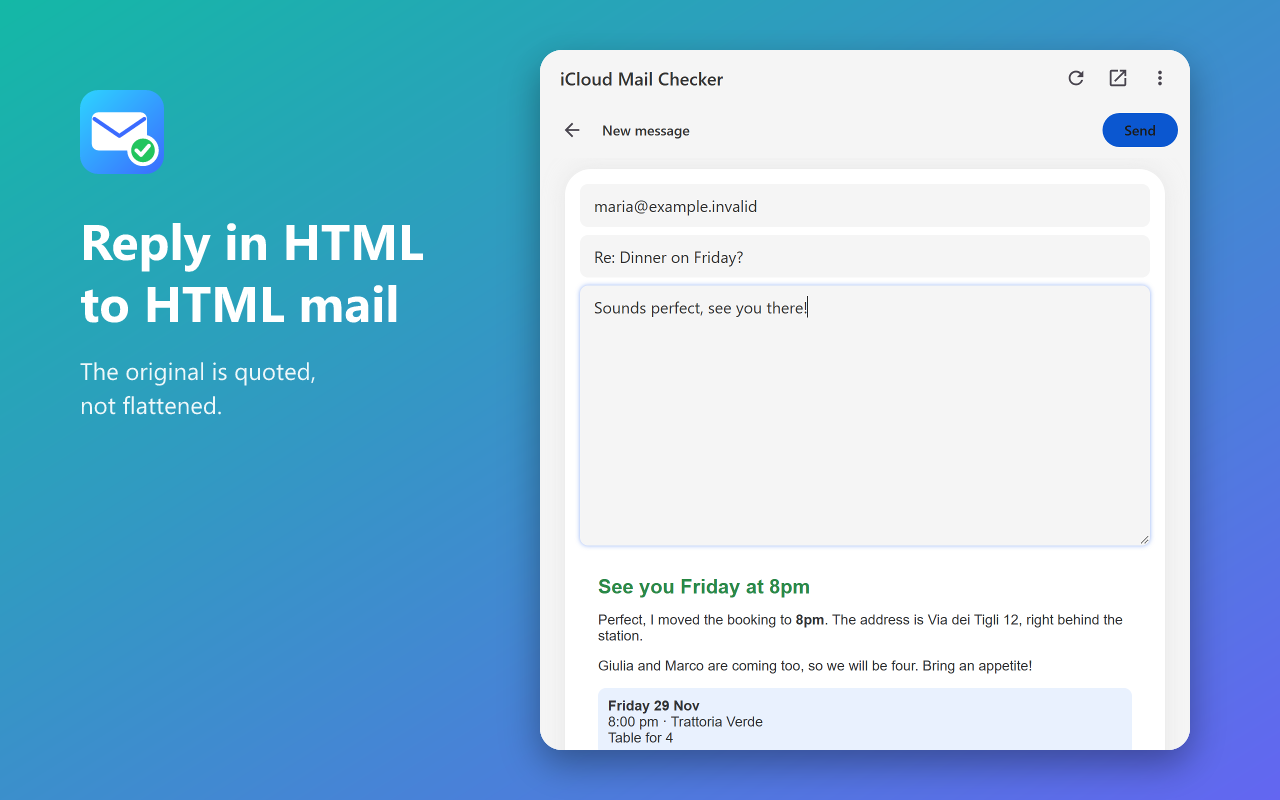
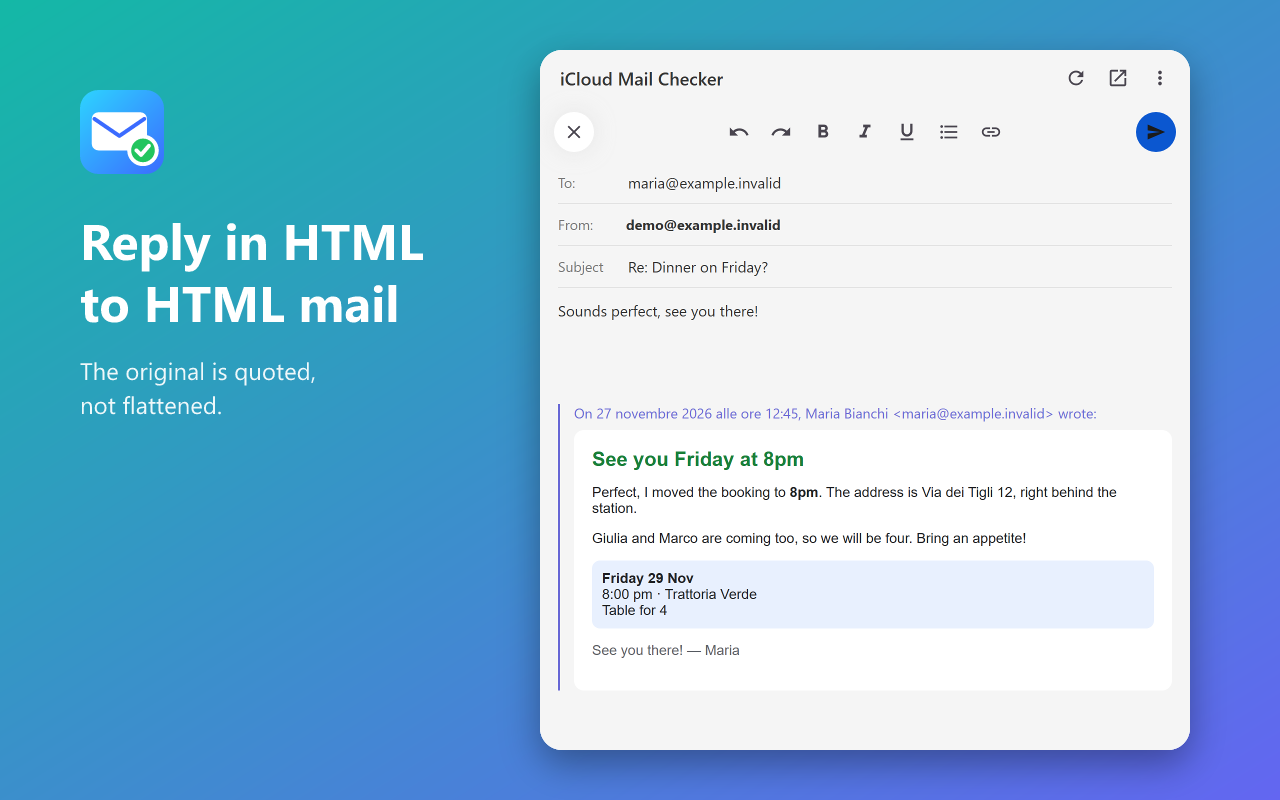
Mail-app style reply: inline editor with formatting toolbar and quoted original; v0.1.1

diff --git a/popup/popup.js b/popup/popup.js
@@ -1,6 +1,6 @@
 import { icon, paintIcons } from './icons.js';
 import { quoteForReply } from '../lib/text.js';
-import { renderMail, buildReplyHtml } from '../lib/sanitize.js';
+import { renderMail, buildReplyHtml, sanitizeHtml } from '../lib/sanitize.js';
 
 const $ = (id) => document.getElementById(id);
 const t = (k) => chrome.i18n.getMessage(k) || k;
@@ -208,38 +208,71 @@ $('act-archive').onclick = act('archive');
 $('act-trash').onclick = act('trash');
 
 /* ---------- composer ---------- */
-let replyCtx = null; // { html, who } when answering an HTML message
+// One editable area (like a mail app): you type on top, the original stays below as a quote.
+let replyCtx = null; // { html, text, attribution } when answering a message
+let savedRange = null;
+const editor = () => $('c-editor');
 
-function compose(reply) {
+function exec(cmd, value) {
+  editor().focus();
+  document.execCommand(cmd, false, value);
+}
+for (const [id, cmd] of [['f-undo', 'undo'], ['f-redo', 'redo'], ['f-bold', 'bold'], ['f-italic', 'italic'], ['f-underline', 'underline'], ['f-list', 'insertUnorderedList']]) {
+  $(id).onmousedown = (e) => { e.preventDefault(); exec(cmd); };
+}
+$('f-link').onmousedown = (e) => {
+  e.preventDefault();
+  const sel = getSelection();
+  savedRange = sel.rangeCount ? sel.getRangeAt(0).cloneRange() : null;
+  const row = $('c-linkrow');
+  row.hidden = !row.hidden;
+  if (!row.hidden) setTimeout(() => $('c-link').focus(), 0);
+};
+$('c-linkok').onclick = () => {
+  const u = $('c-link').value.trim();
+  $('c-linkrow').hidden = true;
+  if (!/^(https?:\/\/|mailto:)/i.test(u)) return;
+  editor().focus();
+  if (savedRange) { const s = getSelection(); s.removeAllRanges(); s.addRange(savedRange); }
+  const s = getSelection();
+  if (s.isCollapsed) exec('insertHTML', `<a href="${u.replace(/"/g, '&quot;')}">${u.replace(/[&<>]/g, '')}</a>`);
+  else exec('createLink', u);
+  $('c-link').value = '';
+};
+
+async function compose(reply) {
   replyCtx = null;
+  const { state } = await chrome.storage.local.get('state');
+  $('c-from').textContent = state?.email || '';
   $('c-to').value = reply ? reply.fromAddress : '';
   $('c-subject').value = reply ? (/^re:/i.test(reply.subject) ? reply.subject : `Re: ${reply.subject}`) : '';
-  const who = reply ? `${reply.date ? new Date(reply.date).toLocaleString() : ''}, ${reply.from} ${t('wrote')}:` : '';
-  const quote = $('c-quote');
-  quote.hidden = true;
-  if (reply && reply.html) {
-    // HTML original: keep it as an HTML quote (shown below, sent as rich content).
-    replyCtx = { html: reply.html, who, text: reply.text };
-    $('c-body').value = '';
-    renderMail(quote, reply.html);
-    quote.hidden = false;
-  } else {
-    $('c-body').value = reply && reply.text ? `\n\n${who}\n${quoteForReply(reply.text)}` : '';
-  }
+  editor().innerHTML = '<div><br></div>';
+  $('c-linkrow').hidden = true;
   $('c-status').textContent = '';
+  const wrap = $('c-quote-wrap');
+  wrap.hidden = true;
+  if (reply && (reply.html || reply.text)) {
+    const date = reply.date ? new Date(reply.date).toLocaleString([], { dateStyle: 'long', timeStyle: 'short' }) : '';
+    const attribution = t('attribution').replace('{date}', date).replace('{sender}', `${reply.from} <${reply.fromAddress}>`);
+    replyCtx = { html: reply.html, text: reply.text || '', attribution };
+    $('c-attrib').textContent = attribution;
+    renderMail($('c-quote'), reply.html, reply.text);
+    wrap.hidden = false;
+  }
   show('v-composer');
-  (reply ? $('c-body') : $('c-to')).focus();
+  (reply ? editor() : $('c-to')).focus();
 }
 
 $('c-send').onclick = async () => {
   const to = $('c-to').value.split(/[,;\s]+/).filter(Boolean);
-  if (!to.length) { $('c-status').textContent = t('to'); return; }
+  if (!to.length) { $('c-status').textContent = t('to'); $('c-to').focus(); return; }
   $('c-send').disabled = true;
-  const typed = $('c-body').value;
-  const msg = { action: 'send', to, subject: $('c-subject').value, body: typed };
+  const userHtml = sanitizeHtml(editor().innerHTML).body.innerHTML;
+  const userText = editor().innerText.trim();
+  const msg = { action: 'send', to, subject: $('c-subject').value, body: userText, html: `<div>${userHtml}</div>` };
   if (replyCtx) {
-    msg.body = `${typed}\n\n${replyCtx.who}\n${quoteForReply(replyCtx.text)}`;
-    msg.html = buildReplyHtml(typed, replyCtx.who, replyCtx.html);
+    msg.body = `${userText}\n\n${replyCtx.attribution}\n${quoteForReply(replyCtx.text)}`;
+    msg.html = buildReplyHtml(userHtml, replyCtx.attribution, replyCtx);
   }
   const r = await call(msg);
   $('c-send').disabled = false;

diff --git a/popup/popup.html b/popup/popup.html
@@ -71,20 +71,35 @@
   </section>
 
   <section id="v-composer" class="view" hidden>
-    <div class="toolbar">
-      <button class="icon" id="c-back" data-icon="back" data-i18n-title="back"></button>
-      <strong class="c-title" data-i18n="composeTitle"></strong>
+    <div class="comp-top">
+      <button class="icon round" id="c-back" data-icon="close" data-i18n-title="back"></button>
       <span class="spacer"></span>
-      <button class="primary" id="c-send" data-i18n="send"></button>
+      <button class="icon" id="f-undo" data-icon="undo" data-i18n-title="undo"></button>
+      <button class="icon" id="f-redo" data-icon="redo" data-i18n-title="redo"></button>
+      <button class="icon" id="f-bold" data-icon="bold" data-i18n-title="bold"></button>
+      <button class="icon" id="f-italic" data-icon="italic" data-i18n-title="italic"></button>
+      <button class="icon" id="f-underline" data-icon="underline" data-i18n-title="underline"></button>
+      <button class="icon" id="f-list" data-icon="list" data-i18n-title="list"></button>
+      <button class="icon" id="f-link" data-icon="link" data-i18n-title="link"></button>
+      <span class="spacer"></span>
+      <button class="send-round" id="c-send" data-icon="send" data-size="20" data-i18n-title="send"></button>
     </div>
-    <div class="pad">
-      <div class="card form">
-        <input id="c-to" data-i18n-ph="to">
-        <input id="c-subject" data-i18n-ph="subject">
-        <textarea id="c-body"></textarea>
-        <div id="c-quote" class="quote" hidden></div>
-        <div id="c-status" class="addr"></div>
+    <div id="c-linkrow" class="linkrow" hidden>
+      <input id="c-link" placeholder="https://">
+      <button class="primary" id="c-linkok" data-i18n="ok"></button>
+    </div>
+    <div class="comp-rows">
+      <label class="crow"><span data-i18n="toLabel"></span><input id="c-to"></label>
+      <div class="crow"><span data-i18n="fromLabel"></span><b id="c-from"></b></div>
+      <label class="crow"><span data-i18n="subject"></span><input id="c-subject"></label>
+    </div>
+    <div class="comp-body">
+      <div id="c-editor" class="editor" contenteditable="true" spellcheck="true"></div>
+      <div id="c-quote-wrap" class="qwrap" hidden>
+        <div id="c-attrib" class="attrib"></div>
+        <div id="c-quote" class="quote"></div>
       </div>
+      <div id="c-status" class="addr"></div>
     </div>
   </section>
 

diff --git a/popup/icons.js b/popup/icons.js
@@ -15,6 +15,13 @@ const PATHS = {
   reply: 'M10 9V5l-7 7 7 7v-4.1c5 0 8.5 1.6 11 5.1-1-5-4-10-11-11z',
   send: 'M2.01 21L23 12 2.01 3 2 10l15 2-15 2z',
   close: 'M19 6.41L17.59 5 12 10.59 6.41 5 5 6.41 10.59 12 5 17.59 6.41 19 12 13.41 17.59 19 19 17.59 13.41 12z',
+  undo: 'M12.5 8c-2.65 0-5.05.99-6.9 2.6L2 7v9h9l-3.62-3.62c1.39-1.16 3.16-1.88 5.12-1.88 3.54 0 6.55 2.31 7.6 5.5l2.37-.78C21.08 11.03 17.15 8 12.5 8z',
+  redo: 'M18.4 10.6C16.55 8.99 14.15 8 11.5 8c-4.65 0-8.58 3.03-9.96 7.22L3.9 16c1.05-3.19 4.05-5.5 7.6-5.5 1.95 0 3.73.72 5.12 1.88L13 16h9V7l-3.6 3.6z',
+  bold: 'M15.6 10.79c.97-.67 1.65-1.77 1.65-2.79 0-2.26-1.75-4-4-4H7v14h7.04c2.09 0 3.71-1.7 3.71-3.79 0-1.52-.86-2.82-2.15-3.42zM10 6.5h3c.83 0 1.5.67 1.5 1.5s-.67 1.5-1.5 1.5h-3v-3zm3.5 9H10v-3h3.5c.83 0 1.5.67 1.5 1.5s-.67 1.5-1.5 1.5z',
+  italic: 'M10 4v3h2.21l-3.42 8H6v3h8v-3h-2.21l3.42-8H18V4z',
+  underline: 'M12 17c3.31 0 6-2.69 6-6V3h-2.5v8c0 1.93-1.57 3.5-3.5 3.5S8.5 12.93 8.5 11V3H6v8c0 3.31 2.69 6 6 6zm-7 2v2h14v-2H5z',
+  list: 'M4 10.5c-.83 0-1.5.67-1.5 1.5s.67 1.5 1.5 1.5 1.5-.67 1.5-1.5-.67-1.5-1.5-1.5zm0-6c-.83 0-1.5.67-1.5 1.5S3.17 7.5 4 7.5 5.5 6.83 5.5 6 4.83 4.5 4 4.5zm0 12c-.83 0-1.5.68-1.5 1.5s.68 1.5 1.5 1.5 1.5-.68 1.5-1.5-.67-1.5-1.5-1.5zM7 19h14v-2H7v2zm0-6h14v-2H7v2zm0-8v2h14V5H7z',
+  link: 'M3.9 12c0-1.71 1.39-3.1 3.1-3.1h4V7H7c-2.76 0-5 2.24-5 5s2.24 5 5 5h4v-1.9H7c-1.71 0-3.1-1.39-3.1-3.1zM8 13h8v-2H8v2zm9-6h-4v1.9h4c1.71 0 3.1 1.39 3.1 3.1s-1.39 3.1-3.1 3.1h-4V17h4c2.76 0 5-2.24 5-5s-2.24-5-5-5z',
   attach: 'M16.5 6v11.5c0 2.21-1.79 4-4 4s-4-1.79-4-4V5a2.5 2.5 0 0 1 5 0v10.5c0 .55-.45 1-1 1s-1-.45-1-1V6H10v9.5a2.5 2.5 0 0 0 5 0V5c0-2.21-1.79-4-4-4S7 2.79 7 5v12.5c0 3.04 2.46 5.5 5.5 5.5s5.5-2.46 5.5-5.5V6h-1.5z'
 };
 

diff --git a/popup/popup.css b/popup/popup.css
@@ -98,3 +98,21 @@ button { font: inherit; color: inherit; cursor: pointer; border: 0; background: 
 .msg .mbody { border-radius: 0 0 20px 20px; overflow: hidden; max-height: 520px; overflow-y: auto; }
 .msg.single .mbody { border-radius: 20px; }
 .quote { border-radius: 14px; overflow: hidden; max-height: 220px; overflow-y: auto; opacity: .92; }
+
+/* composer, mail-app style */
+.comp-top { display: flex; align-items: center; gap: 2px; padding: 10px 14px; position: sticky; top: 0; z-index: 2; background: var(--bg); }
+.icon.round { background: var(--card); box-shadow: var(--glow); }
+.send-round { width: 40px; height: 40px; border-radius: 50%; display: grid; place-items: center; background: var(--accent); color: #fff; }
+@media (prefers-color-scheme: dark) { .send-round { color: #1b1b1b; } }
+.linkrow { display: flex; gap: 8px; padding: 0 18px 8px; }
+.linkrow input { flex: 1; padding: 8px 12px; border-radius: 8px; border: 0; background: var(--card); color: var(--text); font: inherit; }
+.comp-rows { padding: 0 18px; }
+.crow { display: flex; align-items: center; gap: 10px; padding: 9px 0; border-bottom: 1px solid var(--line); min-height: 42px; }
+.crow > span { color: var(--mut); min-width: 58px; }
+.crow input { flex: 1; border: 0; outline: 0; background: transparent; color: var(--text); font: inherit; font-size: 15px; }
+.comp-body { padding: 12px 18px 24px; }
+.editor { min-height: 90px; outline: none; font-size: 15px; line-height: 1.45; word-break: break-word; }
+.editor a { color: var(--accent); }
+.qwrap { margin-top: 14px; border-left: 2px solid #6b6bd6; padding-left: 14px; }
+.attrib { color: #6b6bd6; margin-bottom: 8px; }
+.qwrap .quote { border-radius: 10px; max-height: none; overflow: hidden; opacity: 1; }

diff --git a/lib/sanitize.js b/lib/sanitize.js
@@ -64,13 +64,19 @@ export function renderMail(host, html, text = '') {
   });
 }
 
-/** HTML for the reply body: the user's text, attribution, then the original as a blockquote. */
-export function buildReplyHtml(userText, attribution, originalHtml) {
+/** HTML for a reply: what the user typed (already sanitized HTML), attribution, then the original as a quote. */
+export function buildReplyHtml(userHtml, attribution, original) {
   const esc = (s) => String(s).replace(/[&<>]/g, (c) => ({ '&': '&amp;', '<': '&lt;', '>': '&gt;' }[c]));
-  const doc = sanitizeHtml(originalHtml, { images: true });
-  const quoted = doc.body.innerHTML;
-  const styles = [...doc.head.querySelectorAll('style')].map((s) => s.outerHTML).join('');
-  return `<div>${esc(userText).replace(/\r?\n/g, '<br>')}</div><br>`
-    + `<div>${esc(attribution)}</div>`
-    + `<blockquote style="margin:0 0 0 .8ex;border-left:1px solid #ccc;padding-left:1ex">${styles}${quoted}</blockquote>`;
+  let quoted = '';
+  let styles = '';
+  if (original.html) {
+    const doc = sanitizeHtml(original.html, { images: true });
+    quoted = doc.body.innerHTML;
+    styles = [...doc.head.querySelectorAll('style')].map((s) => s.outerHTML).join('');
+  } else {
+    quoted = `<pre style="white-space:pre-wrap;font:inherit;margin:0">${esc(original.text || '')}</pre>`;
+  }
+  return `<div>${userHtml}</div><br>`
+    + `<div style="color:#6b6bd6">${esc(attribution)}</div>`
+    + `<blockquote style="margin:6px 0 0;border-left:2px solid #6b6bd6;padding-left:12px">${styles}${quoted}</blockquote>`;
 }
